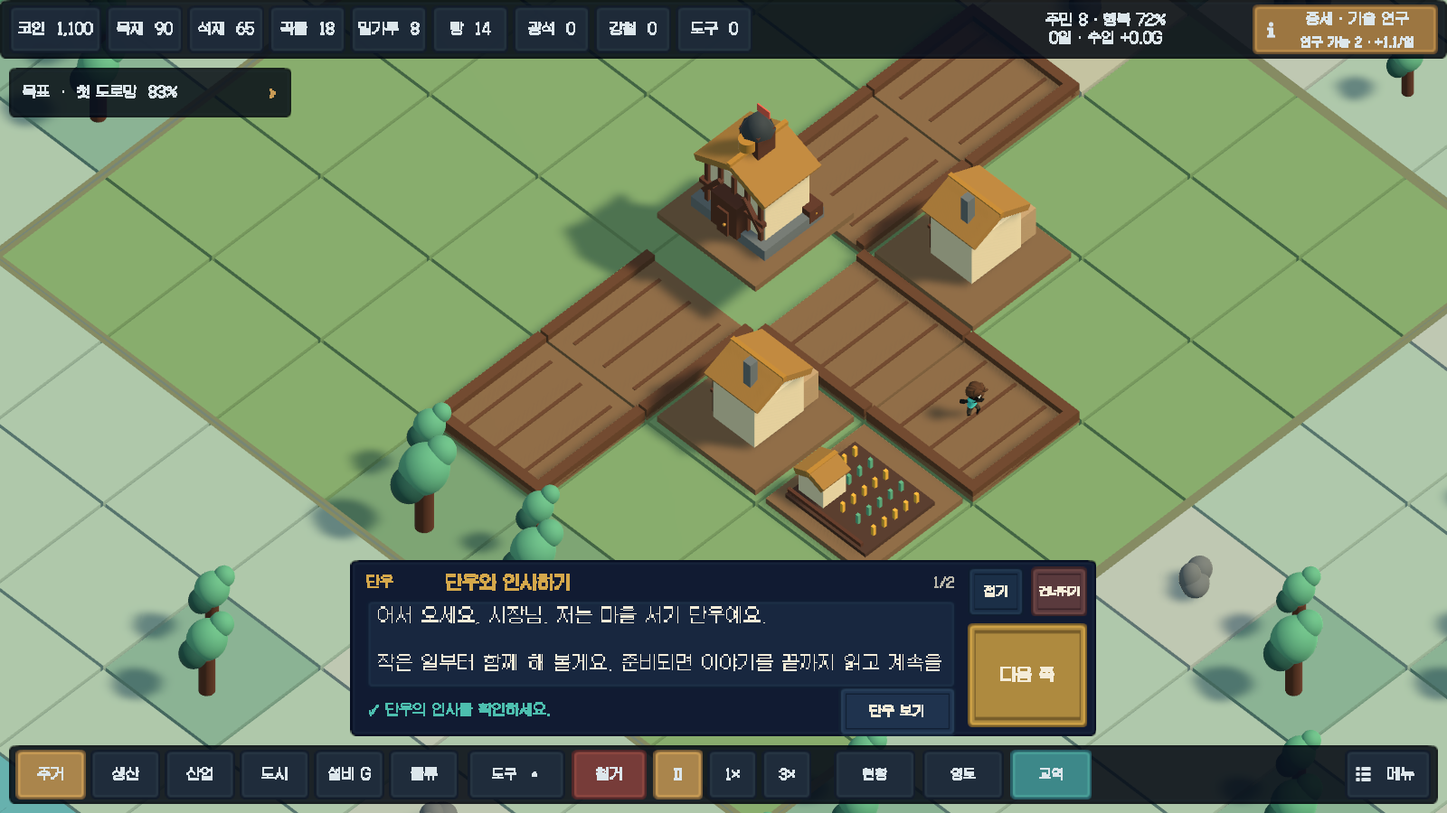
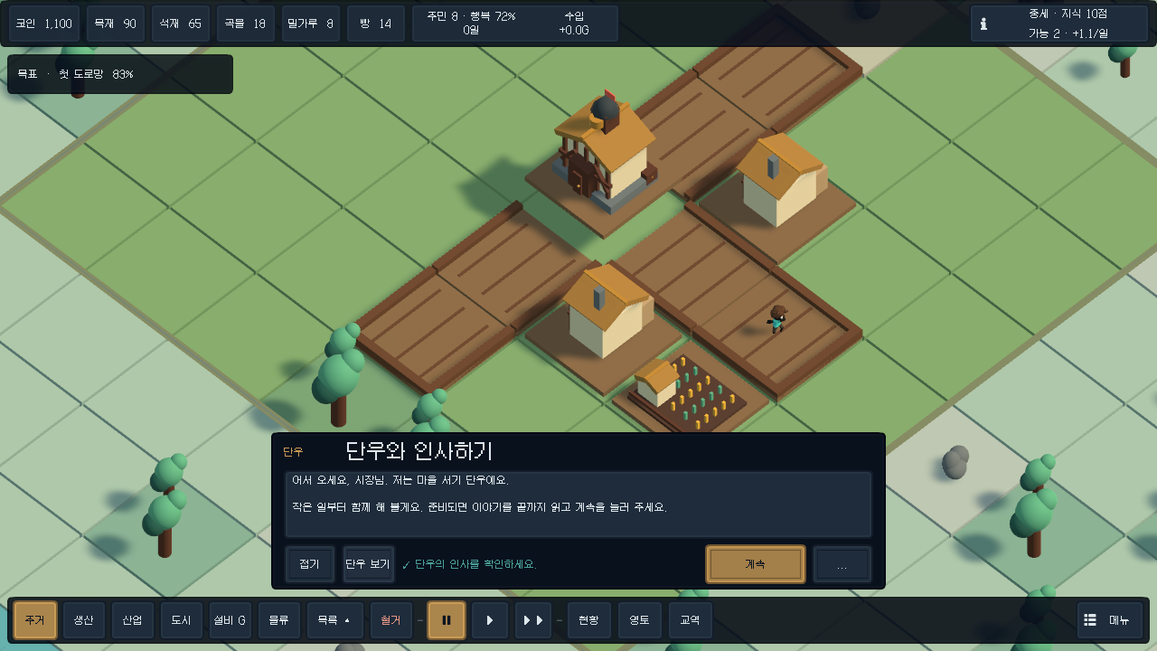
release: document and package verified v0.6.2 UI polish

diff --git a/Assets/Editor/BuildAutomation.cs b/Assets/Editor/BuildAutomation.cs
@@ -16,7 +16,7 @@ namespace Riverworks.Editor
         {
             PlayerSettings.companyName="Riverworks Studio";
             PlayerSettings.productName="Riverworks";
-            PlayerSettings.bundleVersion="0.6.1";
+            PlayerSettings.bundleVersion="0.6.2";
             PlayerSettings.SetApplicationIdentifier(UnityEditor.Build.NamedBuildTarget.Standalone,"studio.riverworks.city");
             PlayerSettings.defaultScreenWidth=1600; PlayerSettings.defaultScreenHeight=900;
             PlayerSettings.defaultIsNativeResolution=false;

diff --git a/Docs/ARCHITECTURE.md b/Docs/ARCHITECTURE.md
@@ -8,7 +8,7 @@ RIVERWORKS v0.6은 Unity 6000.5.5f1 기반 단일 플레이어 공유 도시 프
 
 주민의 기본 일과와 단우 안내는 로컬 규칙으로 동작합니다. 별도의 `ResidentAiClient`와 `Server/` 게이트웨이는 OpenRouter 모델이 제안한 제한된 방문 계획을 선택적으로 적용합니다. 모델이 건설·경제·생산 상태를 직접 바꾸는 API는 없으며, 연결되지 않았거나 검증에 실패하면 `CitizenSimulation`의 기존 일과를 계속 사용합니다.
 
-현재 v0.6 Windows 빌드와 도시·통합 물류·컴팩트 UI·튜토리얼·Feel·주민 AI 계약 런타임 검사의 GUID는 `6305bd1d1d9c485c90bd4c7e4aeef363`입니다. 주민 AI 검사는 실제 제공자 호출이 없는 `MOCK_CONTRACT`이고, 유효한 OpenRouter 키가 없어 `LIVE_OPENROUTER`는 실행하지 못했습니다. v0.6 Android APK 생성과 실제 기기 설치·터치·성능도 아직 완료되지 않았습니다. 세부 결과는 [검증 기록](VERIFICATION.md)에 있습니다.
+현재 v0.6 Windows 빌드와 도시·통합 물류·컴팩트 UI·튜토리얼·Feel·주민 AI 계약 런타임 검사의 GUID는 `6438d35a7cc847fe83ab317eef8dd5a7`입니다. 주민 AI 검사는 실제 제공자 호출이 없는 `MOCK_CONTRACT`이고, 유효한 OpenRouter 키가 없어 `LIVE_OPENROUTER`는 실행하지 못했습니다. v0.6 Android APK 생성과 실제 기기 설치·터치·성능도 아직 완료되지 않았습니다. 세부 결과는 [검증 기록](VERIFICATION.md)에 있습니다.
 
 ## 실행 객체 그래프
 
@@ -230,7 +230,7 @@ CanExport(FactoryEntity)
 - 설비 창고·반입 부두에 도시 재고 10개 투입
 - 닫기
 
-모달 상태는 `GameController.ModalOpen`과 HUD의 로컬 `factoryModalOpen`을 함께 사용해 연구·새 도시·모바일 교역 모달과 겹치지 않게 합니다. 파일로 남아 있는 `FactoryHud`는 `GameController`가 생성하거나 활성화하지 않습니다.
+모달 상태는 `GameController.ModalOpen`과 HUD의 로컬 `factoryModalOpen`을 함께 사용해 연구·새 도시·모바일 교역 모달과 겹치지 않게 합니다. 사용하지 않던 독립 공장 HUD는 삭제했으며, 공장 UI도 `Hud.cs`와 `Hud.Modals.cs`에 통합되어 있습니다.
 
 ### 모바일 입력
 
@@ -347,21 +347,21 @@ dotnet run --project .\Tests\Riverworks.Tests.csproj -c Release
 
 `CityLogisticsChecks`와 `CityFactoryChecks`는 42×42 기하, 양방향 점유, 도로·벨트 공존, 도시 바위, 물 교량, 생산·가공 버퍼, 시청·도시 창고·시장 인계, 역압, 전력·반출 연결과 v3→v4 보존을 다룹니다. `SharedCityScenario`와 `SharedCitySmokeTest`는 Unity 런타임에서 단일 보드·카메라·HUD·주민 유지, 실제 이동 화물과 저장 왕복을 검사합니다.
 
-현재 기록된 v0.6 결과는 다음과 같습니다.
+현재 기록된 v0.6.2 결과는 다음과 같습니다.
 
 | 검증 계층 | 결과 |
 |---|---:|
 | 순수 C# 코어 | 695개 PASS |
-| `RuntimeSmokeTest` 도시 | 59개 PASS |
+| `RuntimeSmokeTest` 도시 | 61개 PASS |
 | `SharedCitySmokeTest` | 106개 PASS |
-| `CompactHudSmokeTest` | 248개 PASS |
-| `TutorialSmokeTest` | 886개 PASS |
-| `FeelSmokeTest` | 174개 PASS |
-| `ResidentAiSmokeTest` | 77개 PASS, `MOCK_CONTRACT`, 실제 제공자 호출 없음 |
+| `CompactHudSmokeTest` | 779개 PASS |
+| `TutorialSmokeTest` | 2,465개 PASS |
+| `FeelSmokeTest` | 180개 PASS |
+| `ResidentAiSmokeTest` | 160개 PASS, `MOCK_CONTRACT`, 실제 제공자 호출 없음 |
 
-모든 Windows 런타임 결과는 빌드 GUID `6305bd1d1d9c485c90bd4c7e4aeef363`에서 오류 없이 종료됐습니다. `FeelSmokeTest`는 실제 `MMF_Player`, 시청 근접 줌, 수동 카메라 취소와 기준 변환 복원을 포함하고, `TutorialSmokeTest`는 11단계·19개 기능 안내, 실제 단우 도로 이동, 카메라 추적, 초상화 부재와 저장 경계를 포함합니다.
+모든 Windows 런타임 결과는 빌드 GUID `6438d35a7cc847fe83ab317eef8dd5a7`에서 오류 없이 종료됐습니다. `FeelSmokeTest`는 실제 `MMF_Player`, 시청 근접 줌, 수동 카메라 취소와 기준 변환 복원을 포함하고, `TutorialSmokeTest`는 11단계·19개 기능 안내, 실제 단우 도로 이동, 카메라 추적, 초상화 부재와 저장 경계를 포함합니다.
 
-순수 테스트와 Windows 런타임 통과는 Android 또는 외부 제공자 검증을 뜻하지 않습니다. v0.6 Android APK 생성·서명·구성 검사와 실제 기기 설치·터치·성능은 아직 완료되지 않았습니다. 주민 AI도 로컬 계약 서버까지만 확인했으며 실제 `LIVE_OPENROUTER` 호출은 키 부재로 미검증입니다. 최신 [검증 기록](VERIFICATION.md)의 실제 산출물 보고를 기준으로 상태를 판단해야 합니다.
+순수 테스트와 Windows 런타임 통과는 Android 또는 외부 제공자 검증을 뜻하지 않습니다. v0.6 Android APK 생성·서명·구성 검사와 실제 기기 설치·터치·성능은 아직 완료되지 않았습니다. 주민 AI도 로컬 계약 서버까지만 확인했으며 실제 `LIVE_OPENROUTER` 호출은 이번 검사에서 실행하지 않았습니다. 최신 [검증 기록](VERIFICATION.md)의 실제 산출물 보고를 기준으로 상태를 판단해야 합니다.
 
 ## 현재 범위
 

diff --git a/Docs/SHARED_CITY_CONTRACT.md b/Docs/SHARED_CITY_CONTRACT.md
@@ -20,10 +20,10 @@ Add `FactorySimulation.InvalidateEnvironment()` orsafeRecalculateforce so roads/
 Own FactoryView.cs andFactoryVisuals.cs only. RemoveBuildFloor/BuildCamera/fullclearcamera creation, noactivealternatecameras. Camera property delegates Game.CameraRig.Camera. AlwaysrenderonCity board (evenwhenfactorytoolsclosed); existing Refresh andselection/hover APIs retained. Scale/coordinates asabove. Public WorldPosition microcoords, PanScreen/Zoom/HomeCamera delegatescitycamera. Noownkeyboardcamera handling. NoGenericoremap inview; drillresourcecityRockvisibleviaexistingBoard. Avoidroadvisualocclusion: belts onRoadcanbe slightlyraised/bridge-style; nofactoryfloor. Sharedmaterialsstyles suitboard, poles/wires/items inworld. Selectedoutlinepersists. Root neverdisablesView.
 
 ## Main HUD owner (unify_hud)
-Own Hud.cs +new UI/CityMachineInspector.cs optionalonly. KeepcityHUD on screen, add bottomcategories 설비 / 물류 alongsideexisting4, allfactorytools withtech/cost/rotation preview inmainpalette. NoFactoryHudfullcanvas used. ExistingButton_Factory renamedvisible 산업 설비 butnameunchanged; G switchespalette only. RootFactoryController.IsOpen now means tools paletteactive (no viewchange). `GameController.OpenFactory` callsFactory.Open(false) andmainHUD selects설비; useevent viaChanged/poll. Factory.SelectTool clearscitytool viaGame.SelectTool(None) safely; selectingcitytool rootclearsfactorytool. ToolrotateR onlywhenfactorytoolselected, explicitonscreenRotatebuttonmobile. `GameController.SelectedFactory => Factory.SelectedEntity`, maininspectorreadfactoryfieldswhenpresent; configurebuttonopenssmallmodalwithrecipes/filters/feed andClose whilecityremainsbehind. MainGameController.ModalOpen usedwithlocalfactoryModalflag toavoidnewgameconfirmlikeexistingtrade. FeedonlyStorage/ImportDock/Centralport rootAPI, inventoryresourcesinteger. Nopractice/blueprintswitch UI. Updatehelp: samecityplacement,ownedterrain,machineonecitylot,warehouses/marketsphysicalhandoff. Keepmobiletoggles/safearea/OSfontbundle/stablecityresearchbuttons. Rootcontroller exposesSelectedFactory andFactoryToolActive. ConstructorFactorymaynotyetexist whenHud.Initialize sohandle null.
+Own Hud.cs +new UI/CityMachineInspector.cs optionalonly. KeepcityHUD on screen, add bottomcategories 설비 / 물류 alongsideexisting4, allfactorytools withtech/cost/rotation preview inmainpalette. No separate factory canvas is used. ExistingButton_Factory renamedvisible 산업 설비 butnameunchanged; G switchespalette only. RootFactoryController.IsOpen now means tools paletteactive (no viewchange). `GameController.OpenFactory` callsFactory.Open(false) andmainHUD selects설비; useevent viaChanged/poll. Factory.SelectTool clearscitytool viaGame.SelectTool(None) safely; selectingcitytool rootclearsfactorytool. ToolrotateR onlywhenfactorytoolselected, explicitonscreenRotatebuttonmobile. `GameController.SelectedFactory => Factory.SelectedEntity`, maininspectorreadfactoryfieldswhenpresent; configurebuttonopenssmallmodalwithrecipes/filters/feed andClose whilecityremainsbehind. MainGameController.ModalOpen usedwithlocalfactoryModalflag toavoidnewgameconfirmlikeexistingtrade. FeedonlyStorage/ImportDock/Centralport rootAPI, inventoryresourcesinteger. Nopractice/blueprintswitch UI. Updatehelp: samecityplacement,ownedterrain,machineonecitylot,warehouses/marketsphysicalhandoff. Keepmobiletoggles/safearea/OSfontbundle/stablecityresearchbuttons. Rootcontroller exposesSelectedFactory andFactoryToolActive. ConstructorFactorymaynotyetexist whenHud.Initialize sohandle null.
 
 ## Root controller responsibilities
-RewriteFactoryController torealonlycityenvironment/noFactoryHud andviewalwaysactive. Open/Close onlytoolpalette flags; noGame.SetFactoryDisplay suppression. Game keepsall cityobjects/camera/HUD active; maininputroutespointtolayer8 thenmicroplacement forfactorytools, factoryentityselectionotherwise. Factory.Changed refreshesGameUI, sameNotice. Factories tickalwaysinbackgroundnormal. MethodCanAfford includesCoreenvironment.CanPlace viaSim. Corecitysource/procporthandoff immediatelymovesactualbuffers. PassiveRecalculateinvalidatedbyGame.RefreshWorld.
+RewriteFactoryController toreal-only city environment without a separate factory UI andviewalwaysactive. Open/Close onlytoolpalette flags; noGame.SetFactoryDisplay suppression. Game keepsall cityobjects/camera/HUD active; maininputroutespointtolayer8 thenmicroplacement forfactorytools, factoryentityselectionotherwise. Factory.Changed refreshesGameUI, sameNotice. Factories tickalwaysinbackgroundnormal. MethodCanAfford includesCoreenvironment.CanPlace viaSim. Corecitysource/procporthandoff immediatelymovesactualbuffers. PassiveRecalculateinvalidatedbyGame.RefreshWorld.
 SaveStorev4sharedgeometry/Cellbuffers/archive validation,migrationtests; Android/Windowsbuild+unifiedscene smoke. OldFactorySmoke separateview assertions mustbereplaced.
 
 ## Verification owner (unify_smoke)

diff --git a/Docs/FEATURE_CATALOG.ko.md b/Docs/FEATURE_CATALOG.ko.md
@@ -9,7 +9,8 @@
 | v0.5 도시·공장·작은 HUD | 구현·배포 완료 | Windows 실행 검사, Android APK 빌드·구성·서명 검사, Google Drive 업로드 확인 |
 | v0.6 Feel·단우·Galmuri11 | 구현·PC 검증 완료 | 실제 `MMF_Player`, 시청 도착, 11단계 튜토리얼, 19개 후속 안내와 번들 도트 한글 폰트의 Windows 런타임 검사 통과 |
 | 선택형 OpenRouter 주민 행동 | 구현·계약 검증 완료 | Node.js 게이트웨이와 Unity 클라이언트의 `MOCK_CONTRACT` HTTP 흐름 통과. 제공자 키 미입력으로 실제 모델 호출은 미검증 |
-| v0.6 Android·배포 | 빌드 진행 중 | 성공한 v0.6 APK 산출물·구성 검사, 실제 기기 검사와 Drive 배포는 아직 확인되지 않음 |
+| v0.6.2 UI 다듬기 | Windows 검증 완료 | UI 779개·단우 2,465개·AI 로컬 계약 160개. 네 가지 정확한 렌더 크기의 텍스트·버튼·스크롤 검사 통과 |
+| v0.6 Android | 미검증 | 현재 릴리스는 Windows용. 최신 APK·실제 기기·Drive 배포는 이번 작업에 포함하지 않음 |
 
 빌드나 순수 검사는 실제 Android 기기 조작을 뜻하지 않는다. 현재 배포된 v0.5 APK는 ARM64/IL2CPP 개발용 빌드이며 실제 기기 설치·터치·성능·발열 검사는 아직 없다.
 
@@ -147,7 +148,20 @@
 - v4 저장은 도시, 자원, 목표, 연구, 날짜의 일부 진행, 주민을 재현할 상태, 42×42 공장, 설비 버퍼와 이동 중 화물을 함께 보존한다.
 - 90초 자동 저장, F5/메뉴 수동 저장, 불러오기, 새 도시, 원자적 파일 교체와 `.bak` 복구를 지원한다.
 - v1~v3 저장을 읽는다. v3의 옛 24×16 분리 공장은 보관본으로 남기고 건설비와 물자를 한 번 환급한 뒤 빈 공유 도시 공장으로 전환한다.
-- Windows x64와 Android ARM64/IL2CPP 빌드 경로가 있다. 배포된 최신 완성본은 v0.5이며 v0.6 배포는 아직 아니다.
+- Windows x64와 Android ARM64/IL2CPP 빌드 경로가 있다. Windows는 GitHub Release로 배포하며, Android에서 확인된 이전 배포 버전은 v0.5다.
+
+## v0.6.2 UI 다듬기 — Windows 검증 완료
+
+- 연구 창은 화면 크기에 맞춰 폭과 높이를 제한하고, 좁은 화면에서는 시대 열을 가로 스크롤할 수 있다. 메뉴·현황·영토·교역·설비 구성 등 모달도 같은 카드·딤·44×44 닫기 형식과 화면 경계 제한을 공유한다.
+- 단우 대화는 실제 렌더 높이를 재어 맞는 분량으로 페이지를 나눈다. 건설 목록이나 활성 도구 막대와 동시에 열리면 그 위로 이동하며, 자주 쓰는 `접기·단우 보기·계속` 외 기능은 더보기 메뉴에 둔다.
+- 설비 구성은 용광로와 조립기에 맞는 제조법만 연속 배치하고, 투입기 필터와 도시 재고 투입은 격자에 놓는다. 활성 섹션에 맞춰 창 높이를 바꿔 빈 슬롯과 불필요한 여백을 줄였다.
+- 주민 AI 상태는 모드와 설명이 같은 의미일 때 한 번만 표시한다. 오래된 도움말의 교역 조작도 현재의 구매·판매 버튼 방식으로 고쳤다.
+- `HudStyle`이 Surface·Raised·Text·Muted·Accent·Positive·Danger 색과 11px 본문·22px 제목·44px 터치 크기를 함께 관리한다. Galmuri11에는 가짜 굵기를 쓰지 않고 Canvas는 화면과 DPI에 맞춘 정수 배율을 적용한다.
+- 하단의 `주거·생산·산업·도시·설비·물류` 여섯 탭은 그대로 유지한다. 건설 목록은 내용 폭에 맞춰 스크롤되며, 호버 또는 길게 누르기로 전체 설명·비용·잠금 사유를 열고 선택한 도구 막대에도 비용을 표시한다.
+- 상단의 광석·강철·도구는 해금되거나 보유한 뒤 표시되고, 교역 창은 보유 코인·물자와 구매·판매 가능 조건을 보여 준다. 영토 창은 인접 필요와 코인 부족을 구분한다.
+- 건물·설비 인스펙터는 상태, 생산·제조법, 레벨, 투입·출력 재고와 좌표를 분리한다. 전력 행은 전력을 실제로 쓰거나 공급하는 대상에만 표시하고 연결 끊김·원료 부족·전력 필요 상태는 위험 색으로 알린다.
+- 사용되지 않던 별도 `FactoryHud` 파일은 제거하고 통합 도시 HUD만 남겼다.
+- 위 항목은 Windows 실행 파일에서 네 가지 렌더 크기로 검증했다. 물리 디스플레이·Android 실기기 검사와는 구분하며 상세 결과는 [검증 기록](VERIFICATION.md)에 있다.
 
 ## v0.6 추가 구현과 검증 상태
 

diff --git a/Docs/UI_POLISH.ko.md b/Docs/UI_POLISH.ko.md
@@ -1,0 +1,41 @@
+# v0.6.2 UI 다듬기
+
+코드로 생성하는 uGUI 안에서 화면 잘림, 겹침, 정보 표시와 조작을 정리했다. 저장 형식 v4, 도시·물류 시뮬레이션, 주민 행동과 외부 AI 통신 계약은 유지한다. 새 UI 패키지나 이미지 에셋은 추가하지 않았다.
+
+## 적용 내용
+
+| 영역 | 바뀐 동작 |
+|---|---|
+| 연구 | 상단 60px·하단 68px 여백과 최대 폭 1180px. 시대별 세로 스크롤과 좁은 화면의 가로 스크롤. 연구 가능한 카드를 먼저 표시하고 완료 카드는 효과 한 줄만 남긴다. |
+| 공통 스타일 | `HudStyle` 색상·11px 본문·22px 제목·정수 Canvas 배율. 가짜 굵기를 제거하고 선택·확인·위험 색을 구분한다. 닫기는 44px 영역을 사용한다. |
+| 하단 도구 | 여섯 분류를 유지하고 건설·시간·도시 기능을 구분한다. 정지·재생 아이콘, 목록 접기와 선택한 도구의 비용을 표시한다. |
+| 자원 | 광석·강철·도구는 해금·건설·보유 후 표시하고 현재 도시에서 유지한다. 인구도 칩에 넣고 적자는 위험 색으로 표시한다. 연구 버튼은 오른쪽에 고정한다. |
+| 건설 목록 | 내용에 맞는 폭, 전체 잠금 사유, 마우스 호버와 0.45초 길게 누르기 툴팁. 길게 누른 뒤 떼어도 건설 도구를 잘못 선택하지 않는다. |
+| 선택 정보 | 상태·생산/제조법·레벨·관련 전력·지형/좌표를 두 열로 정리한다. 긴 행은 세로 스크롤하며 주택에는 전력 행을 표시하지 않는다. |
+| 설비 구성 | 호환되는 제조법만 빈칸 없이 정렬하고 필터·재고 투입을 격자로 배치한다. 활성 내용에 맞춰 창 높이를 조절한다. |
+| 교역·영토 | 보유 코인과 물자 재고, 구매·판매 가능 여부를 표시한다. 영토는 인접 필요와 코인 부족을 구분한다. |
+| 단우 | 실제 텍스트 렌더 높이로 페이지를 나누고 건설 막대 위로 대화창을 올린다. 부가 기능은 더보기에 모으고 기능 목록은 별도 닫기 버튼을 갖는다. |
+| 주민 AI | 중복된 상태 문구를 없애고 입력 라벨·고정 헤더·작은 화면의 본문 스크롤을 정리한다. |
+
+주거와 도시 탭은 합치지 않았다. 미사용 `FactoryHud`와 `Hud.AddClick`은 삭제했고 둥근 패널의 대체 스프라이트는 유지한다.
+
+![1024×768 연구 화면](Images/research-v0.6.2.png)
+
+![1024×768 단우 기능 목록](Images/guidance-v0.6.2.png)
+
+## 화면 검증
+
+Windows 실행 파일 안에서 카메라와 uGUI를 정확한 크기의 RenderTexture에 렌더링한다. 실제 EventSystem 레이캐스트로 버튼·스크롤·월드 입력 차단을 확인하며, 텍스트의 렌더 폭·높이와 마스크 경계도 검사한다. 이는 물리 모니터 크기나 Android 실기기 조작의 증거가 아니다.
+
+| 렌더 해상도 | 기본 화면 입력 차단 | 선택 정보 표시 시 입력 차단 |
+|---|---|---|
+| 1600×900 | 126/960 · 13.13% | 161/960 · 16.77% |
+| 1280×720 | 168/960 · 17.50% | 231/960 · 24.06% |
+| 1024×768 | 170/960 · 17.71% | 236/960 · 24.58% |
+| 2048×1536 | 85/960 · 8.85% | 103/960 · 10.73% |
+
+각 화면의 40×24개 지점을 검사했다. 기본 화면 20%, 선택 화면 30% 한도를 모두 만족한다. 모달 창은 의도적으로 전체 월드 입력을 차단하므로 이 비율에 포함하지 않는다.
+
+일반 캡처는 0.3초 이상의 등장 연출 대기 후 저장한다. 단우의 인트로·타이핑 연속 프레임은 움직임 자체를 기록하는 예외다. 기본 대사 11개와 기능 안내 19개의 모든 페이지를 네 크기에서 실측하며, 기능 목록의 19개 항목과 더보기·닫기도 확인한다.
+
+작업 전후 화면은 로컬 `Artifacts/UiPolish/before`와 `Artifacts/UiPolish/after`에 각 40장씩 보관한다. 이전 화면은 비교용 캡처이며 새 레이아웃 검사에 통과했다는 의미가 아니다. 빌드 GUID, 최종 실행 결과와 재현 명령은 [검증 기록](VERIFICATION.md)에 있다.

diff --git a/Docs/RELEASE_PROCESS.ko.md b/Docs/RELEASE_PROCESS.ko.md
@@ -10,7 +10,7 @@
 - .NET 8 SDK와 Node.js 22 이상
 - GitHub CLI `gh` 로그인
 
-버전은 `Assets/Editor/BuildAutomation.cs`의 현재 Player 버전과 일치시킨다. 아래 예시는 `0.6.1`이다.
+버전은 `Assets/Editor/BuildAutomation.cs`의 현재 Player 버전과 일치시킨다. 아래 예시는 `0.6.2`이다.
 
 ## 1. 소스 계약 검사
 
@@ -44,23 +44,23 @@ Unity가 설치된 Windows 환경에서 빌드한다.
 기본 명령은 Windows 게임 ZIP과 선택형 주민 AI 게이트웨이 ZIP을 함께 만든다.
 
 ```powershell
-.\Tools\Package-Release.ps1 -Version 0.6.1
+.\Tools\Package-Release.ps1 -Version 0.6.2
 ```
 
 미리보기와 이번 빌드에서 새로 녹화한 영상 경로를 명시할 수도 있다.
 
 ```powershell
-.\Tools\Package-Release.ps1 -Version 0.6.1 `
+.\Tools\Package-Release.ps1 -Version 0.6.2 `
   -PreviewPath .\Docs\Images\riverworks-v0.6.png `
-  -MoviePath .\Artifacts\ResidentActivitySmoke\resident-activity.mp4
+  -MoviePath .\Artifacts\UiPolish\ui-polish.mp4
 ```
 
 출력:
 
-- `Builds\Riverworks-v0.6.1-Windows-x64.zip`
-- `Builds\Riverworks-v0.6.1-Windows-x64.zip.sha256`
-- `Builds\Riverworks-Resident-Gateway-v0.6.1.zip`
-- `Builds\Riverworks-Resident-Gateway-v0.6.1.zip.sha256`
+- `Builds\Riverworks-v0.6.2-Windows-x64.zip`
+- `Builds\Riverworks-v0.6.2-Windows-x64.zip.sha256`
+- `Builds\Riverworks-Resident-Gateway-v0.6.2.zip`
+- `Builds\Riverworks-Resident-Gateway-v0.6.2.zip.sha256`
 
 스크립트는 `Builds\.release-staging` 아래에 실행마다 새 검토 폴더를 만든다. Windows ZIP에는 Unity 실행 파일과 런타임 폴더, 사용자 문서, 원본 라이선스, provenance, 최신 미리보기만 명시적으로 넣는다. 게이트웨이 ZIP에는 `Server/src`, `package.json`, `start.ps1`, `.env.example`, 주민 AI 안내만 넣는다. 실제 `.env`, `.data`, 로그, 테스트, `node_modules`, 공급자 키는 포함하지 않는다.
 
@@ -70,8 +70,8 @@ Unity가 설치된 Windows 환경에서 빌드한다.
 
 ```powershell
 .\Tools\Verify-Release.ps1 `
-  -ZipPath .\Builds\Riverworks-v0.6.1-Windows-x64.zip `
-  -ExpectedVersion 0.6.1
+  -ZipPath .\Builds\Riverworks-v0.6.2-Windows-x64.zip `
+  -ExpectedVersion 0.6.2
 ```
 
 검증기는 필수 실행 파일, Unity 데이터, 문서, 라이선스, PNG 헤더, Player 버전, SHA-256 일치를 확인한다. 이어서 ZIP을 새 폴더에 풀고 `Riverworks.exe`를 직접 실행해 새 게임, 저장/불러오기, 튜토리얼, 주민 활동과 공장 작업을 확인한다. 외부 LLM 기능은 키를 사용자가 별도로 설정했을 때만 실제 연결 검증으로 기록한다.
@@ -81,13 +81,13 @@ Unity가 설치된 Windows 환경에서 빌드한다.
 테스트와 패키지 검증이 성공하고 변경 사항을 공개 저장소에 푸시한 뒤 실행한다.
 
 ```powershell
-gh release create v0.6.1 `
-  .\Builds\Riverworks-v0.6.1-Windows-x64.zip `
-  .\Builds\Riverworks-v0.6.1-Windows-x64.zip.sha256 `
-  .\Builds\Riverworks-Resident-Gateway-v0.6.1.zip `
-  .\Builds\Riverworks-Resident-Gateway-v0.6.1.zip.sha256 `
+gh release create v0.6.2 `
+  .\Builds\Riverworks-v0.6.2-Windows-x64.zip `
+  .\Builds\Riverworks-v0.6.2-Windows-x64.zip.sha256 `
+  .\Builds\Riverworks-Resident-Gateway-v0.6.2.zip `
+  .\Builds\Riverworks-Resident-Gateway-v0.6.2.zip.sha256 `
   --repo atozuser0224/riverworks-city `
-  --title "Riverworks v0.6.1" `
+  --title "Riverworks v0.6.2" `
   --generate-notes
 ```
 

diff --git a/Docs/FACTORY_CONTRACT.md b/Docs/FACTORY_CONTRACT.md
@@ -23,4 +23,4 @@ Methods Open(bool practice=false),Close(),SelectTool(FactoryKind),SelectRemove()
 Own NEW Presentation/FactoryView.cs (and newFactoryVisuals.cs optional) ONLY. `Initialize(FactoryController)`, `Refresh(bool structureChanged)`, `Highlight(int x,int z,bool valid)`, `Camera Camera {get;}`, `Vector3 WorldPosition(int x,int z)`; `FactoryTileHandle` MonoBehaviour X,Z, groundcolliderlayer10 only. Root togglesView.gameObjectandchildCamera onopen. Camera viewportRect(.17,.18,.63,.70), orthographicpitch~62 yaw0, board24x16 fits; WASD/MMBpan,wheelzoom,Q/Ecamera onlywhenIsOpen andnotUI. Rootfactorycontrols handleR placementdirection/Esc close, raycastfloorlayer10. Colorpalette slate floor/brass yellow conveyors, tealpower, glowingorangefurnace, violetassembler, storageblue; unique2x2machine silhouettes, littlepowerwireslineRenderers, ports/arrows,currentcargo coloredshape byResource, inserterarmsanimateCargoProgress. Sharedbuilt-inStandard/UnlitColor includedshaders; noURP/externalassets. Do notplacecolliders onmachines sofloorpickingworks. Previewfootprint basedSelectedToolSpec + invalidred/direction. Read coreactualfields; rootSim can changepractice/real reference, Refresh mustrebindmodelcache. Update visualization fromSimstate everyframe withboundedpool; conveyors visibly carry actualitems, notcosmeticrandomtrucks. Camera hidesmainviaGameController root. NoUnityprocess.
 
 ## Factory HUD owner
-Own NEW UI/FactoryHud.cs ONLY. `Initialize(FactoryController)`, root togglesGameObject. NativeuGUI standaloneCanvas overlay, same Korean OSfontfallbackLegacyRuntime, itsowngraphicraycast andEventSystemreuse. Designindustrial professionaldarknavy panels,yellowbeltaccent. Topheading FACTORY / 공장설계, real/practicebadge, livecitycoins ORpracticeinfo,powerdraw/budget,count items/export totals, buttons cityClose/save/pause1x3x. Lefttoolbar12kind buttons (None excluded), sizes/cost/RequiredTechexplain, selectedtoolhighlight +Rrotate/direction/removemode. Bottominstructionsprogresscycle diagram+selectedrecipe/status; rightInspectorselectedentitycoordinates,poweredstate, Input/Output inventorycounts,Cargo resource,Progress,recipebuttonsTools/Flour/Bread orIronPlate; inserterfilter any/ore/steel/timber chosenbuttons; Feed manual10 resource buttonsforselectedImportDock/Storage/Generator?onlyCoreaccepts. Practice / actual switchingcallsOpenPractice/OpenReal and clearbadge sayspracticeexportsnevercity. No fakeglobalstocks link. UI ALL fits1280x720,1600x900 reference1600x900, middleviewportkeptfree (x272..1280,y162..792). Functionalallbuttons raycast true, text false, no duplicatekeyboard. stablebuttons names FactoryButton_<Kind>,FactoryButton_Practice,FactoryButton_Real,FactoryButton_Close,FactoryButton_Rotate. Root mainHUD factory button separateownership. NoUnityruns.
+The independent factory UI proposal was superseded by the shared city HUD. Current production UI lives in Hud.cs and Hud.Modals.cs; the obsolete standalone UI implementation has been deleted.

diff --git a/Docs/CHANGELOG.md b/Docs/CHANGELOG.md
@@ -2,6 +2,17 @@
 
 플레이 동작을 기준으로 정리한 변경 기록입니다. 검증 결과와 검증 범위는 [VERIFICATION.md](VERIFICATION.md)에 별도로 기록합니다.
 
+## v0.6.2 — UI 다듬기
+
+- 연구 창을 화면 안에서 크기가 조정되는 시대별 스크롤 레이아웃으로 바꾸고, 다른 모달도 공통 카드·딤·44×44 닫기 버튼과 화면 크기 제한을 사용하도록 통일했습니다.
+- 단우 대사는 실제 글자 렌더 높이에 맞춰 페이지를 나눠 본문 잘림을 막았습니다. 건설 목록이나 활성 도구 막대가 열리면 대화창을 그 위로 올리고, 기본 버튼 외의 처음부터·건너뛰기·기능 목록·다음 기능·기능 팁은 더보기 메뉴에 모았습니다.
+- 설비 구성 창은 현재 설비에 맞는 제조법만 빈칸 없이 배치하고, 필터·재고 투입을 격자로 정렬하며 활성 섹션 높이에 맞춰 카드 크기를 조정합니다. 주민 AI 상태의 같은 의미 문구가 두 번 표시되지 않도록 정리했습니다.
+- `HudStyle`로 화면 색과 의미를 공유하고 선택·확인·위험 상태를 구분했습니다. Galmuri11 글자는 11px 본문과 22px 제목을 기본으로 쓰며 가짜 굵기를 없앴고, 데스크톱·모바일 Canvas 배율을 정수 단위로 맞추면서 44px 터치 영역과 안전 영역을 유지합니다.
+- 하단의 `주거·생산·산업·도시·설비·물류` 여섯 탭은 유지했습니다. 목록은 내용 폭에 맞춰 스크롤되고, PC 호버와 모바일 길게 누르기로 설명·비용·잠금 사유를 볼 수 있으며 선택한 도구 막대에도 비용을 표시합니다.
+- 교역 창에 보유 코인과 물자별 보유 재고를 표시하고, 코인이나 판매 재고가 부족하면 해당 버튼을 비활성화합니다. 인스펙터는 상태·생산·레벨·재고를 행으로 나누고 전력 관련 건물과 설비에만 전력 조건을 표시하며 문제 상태를 강조합니다.
+- 별도 공장 화면 시절의 미사용 `FactoryHud` 코드를 제거하고 같은 도시 HUD의 설비 UI만 유지했습니다.
+- Windows 실행 검사를 통과했습니다. UI 779개, 단우 2,465개, 주민 AI 로컬 계약 160개와 네 가지 정확한 렌더 크기를 확인했습니다. Android 실기기와 실제 외부 모델 호출은 이번 검증에 포함하지 않습니다.
+
 ## v0.6.1 — 가까운 줌 유지
 
 - 수동 카메라와 Feel 카메라 연출의 최소·최대 줌 범위를 한 곳에서 관리합니다. 가까이 확대한 뒤 드래그하거나 다시 확대해도 자동으로 멀어지지 않습니다.

diff --git a/Docs/TUTORIAL_GUIDE.ko.md b/Docs/TUTORIAL_GUIDE.ko.md
@@ -26,7 +26,7 @@
 
 자동 안내 사이에는 간격을 두며 건설 도구나 다른 창을 사용하는 동안에는 끼어들지 않습니다. 마지막 페이지까지 읽고 확인한 안내만 읽음으로 기록합니다. 자동 기능 팁은 끌 수 있습니다.
 
-조언 모드의 `기능 목록`에서는 19개 설명을 모두 골라 읽을 수 있습니다. 잠긴 기술도 설명을 미리 읽을 수 있으며, 기술이나 시설이 해금되는 것은 아닙니다. 도시·생산·연구·공장·영토의 다섯 주제로도 질문할 수 있습니다.
+조언 모드에서 `... → 기능 목록`을 누르면 19개 설명을 모두 골라 읽을 수 있습니다. 목록 오른쪽 위의 X로 닫습니다. `처음부터`, `건너뛰기`, `다음 기능`, `기능 팁`도 `...`에서 찾을 수 있습니다. 잠긴 기술도 설명을 미리 읽을 수 있으며, 기술이나 시설이 해금되는 것은 아닙니다. 도시·생산·연구·공장·영토의 다섯 주제로도 질문할 수 있습니다.
 
 ## 저장과 다시 시작
 

diff --git a/Docs/UI_REDESIGN.md b/Docs/UI_REDESIGN.md
@@ -1,5 +1,7 @@
 # v0.5 UI 개편
 
+이 문서는 v0.5 개편 기록이다. 현재 레이아웃과 네 해상도 검증은 [v0.6.2 UI 다듬기](UI_POLISH.ko.md)를 참고한다.
+
 도시를 가리던 상시 패널을 줄이고, 건설·운송 중에는 실제 지도를 넓게 볼 수 있게 하는 개편입니다. 게임 시뮬레이션과 v4 저장 형식은 유지합니다.
 
 ## 참고한 게임
